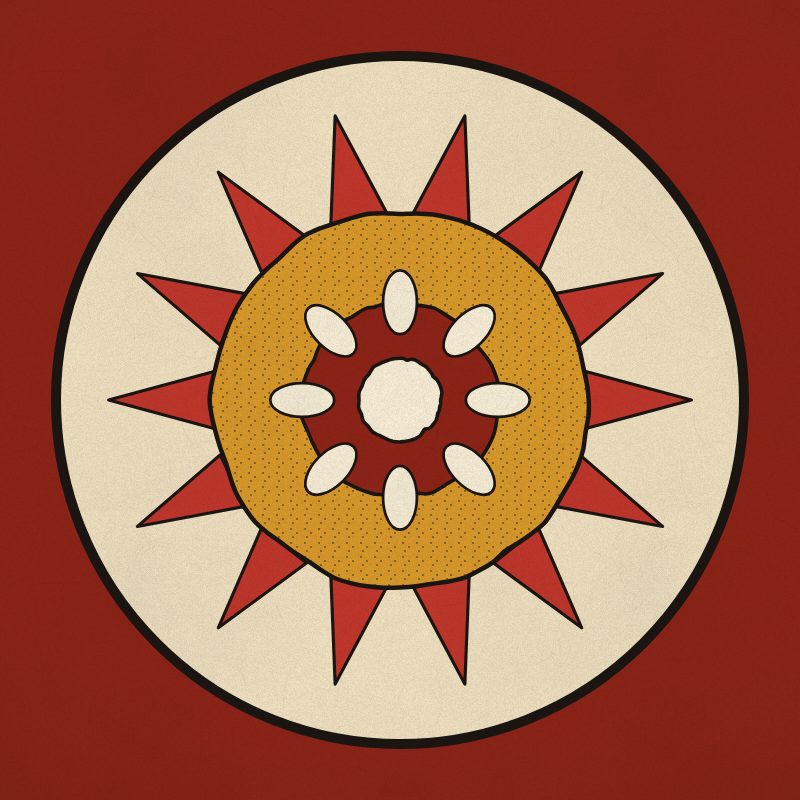
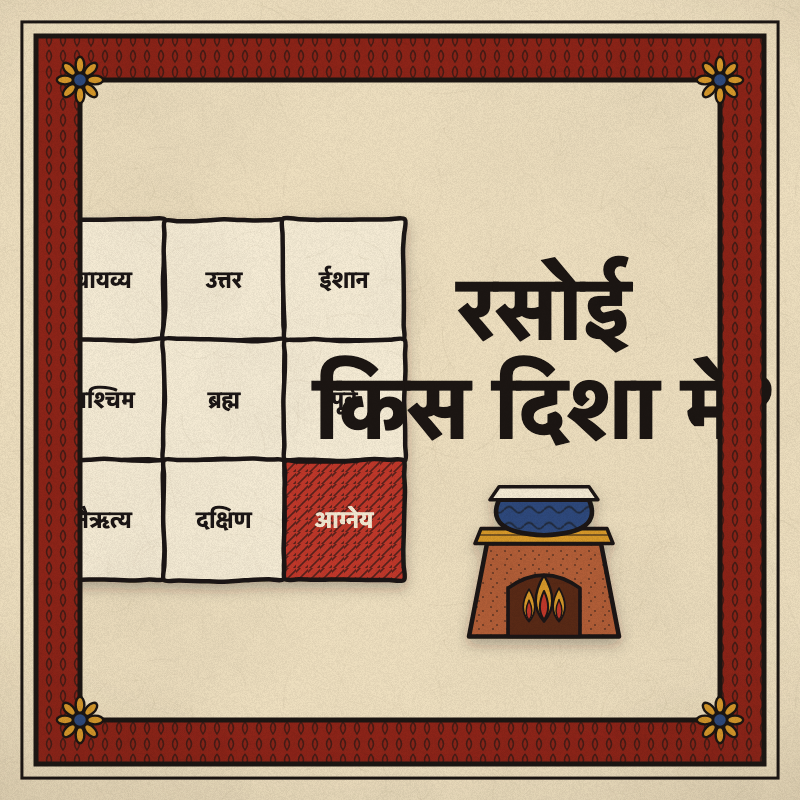
Episode 1 upload pack, and make the thumbnail reachable
The thumbnail scene could never render. Branch selection in the brand
episode used `W / H > 1.6` to spot the banner, but the banner (2048x1152)
and the thumbnail (1280x720) are both 16:9 — so the banner branch claimed
both and the shipped "thumbnail" was banner art squeezed to 1280x720, with
the grid and lotus sliced off at the edges. Selection now goes by preset
name, falling back to width. All three brand assets re-rendered.

UPLOAD.md carries the title, description, chapters, tags, upload settings
and pinned comment for episode 1. The description cites 53.118 with the
free Iyer text linked so viewers can check it, and says plainly that the
Agni-corner reasoning is still open — same position the video takes.

Checked before shipping: 1920x1080 h264 / 48kHz stereo aac, 4m42s, and
-14.2 LUFS integrated, which is YouTube's normalisation target.

diff --git a/episodes/brand/episode.js b/episodes/brand/episode.js
@@ -16,8 +16,12 @@ export default {
   script: [],
   build({ stage, preset }) {
     const W = stage.width, H = stage.height, CX = W / 2, CY = H / 2;
-    const isLogo = Math.abs(W - H) < 2;
-    const isBanner = W / H > 1.6;
+    // Banner and thumbnail are both 16:9, so aspect ratio cannot tell them
+    // apart — it made the thumbnail branch unreachable. Go by preset name,
+    // falling back to size (banner 2048 wide, thumbnail 1280).
+    const kind = preset ?? (Math.abs(W - H) < 2 ? 'logo' : W >= 2000 ? 'banner' : 'thumb');
+    const isLogo = kind === 'logo';
+    const isBanner = kind === 'banner';
 
     stage.scene({ name: 'brand', from: 0, to: 2, build() {
       if (isLogo) {

diff --git a/episodes/rasoi-disha/UPLOAD.md b/episodes/rasoi-disha/UPLOAD.md
@@ -1,0 +1,119 @@
+# Episode 1 — upload pack
+
+Paste-ready. Everything below is the Hindi copy that goes into YouTube Studio.
+
+---
+
+## Title
+
+**Primary** (84 chars — question form, names the source, promises no outcome):
+
+```
+रसोई किस दिशा में? बृहत् संहिता ५३.११८ में क्या लिखा है
+```
+
+Alternates:
+
+```
+रसोई किस दिशा में होनी चाहिए? — ग्रंथ से सीधा उत्तर
+```
+```
+रसोई की दिशा: बृहत् संहिता क्या कहती है, और क्या नहीं
+```
+
+Why question form: among the top performers in this niche, question titles were
+the most common pattern (22% of them, 1.07M median views). It also happens to be
+what this episode actually is.
+
+---
+
+## Description
+
+```
+हर घर में यह सवाल उठता है — रसोई किस दिशा में होनी चाहिए?
+
+इस वीडियो में हम जवाब किसी परंपरा या सुनी-सुनाई बात से नहीं, सीधे ग्रंथ से
+पढ़ते हैं। वराहमिहिर की बृहत् संहिता, अध्याय ५३, श्लोक ११८ — जहाँ रसोई का
+स्थान स्पष्ट रूप से दक्षिण-पूर्व (आग्नेय) बताया गया है।
+
+और जहाँ ग्रंथ चुप है, वहाँ हम भी चुप हैं। आग्नेय कोण का जो कारण आमतौर पर
+बताया जाता है, वह इसी अनुवाद के श्लोक ४३ से पूरी तरह मेल नहीं खाता। हमने यह
+बात छिपाई नहीं — वीडियो में साफ़ कहा है कि यह आगे पढ़ना बाकी है।
+
+शास्त्र जितना कहता है, उतना ही कहेंगे — पूरे सम्मान के साथ, और पूरी सावधानी से।
+
+━━━━━━━━━━━━━━━━━━━━
+
+⏱ अध्याय
+
+0:00 सवाल
+0:37 ग्रंथ
+1:38 वास्तुपुरुष
+2:33 कारण और शास्त्र की गहराई
+3:37 निश्चित और अनिश्चित
+
+━━━━━━━━━━━━━━━━━━━━
+
+📖 स्रोत
+
+बृहत् संहिता — वराहमिहिर (छठी शताब्दी)
+अनुवाद: N. Chidambaram Iyer, 1884 — पूरा पाठ निःशुल्क उपलब्ध है:
+https://www.wisdomlib.org/hinduism/book/brihat-samhita/d/doc229297.html
+
+आप स्वयं पढ़कर जाँच सकते हैं। यही इस चैनल का तरीक़ा है।
+
+━━━━━━━━━━━━━━━━━━━━
+
+⚠ सूचना
+
+यह वीडियो पारंपरिक ग्रंथों की जानकारी देता है। यह किसी परिणाम, लाभ या
+उपाय की गारंटी नहीं है, और न ही यह चिकित्सा, वित्तीय या क़ानूनी सलाह है।
+किसी भी निर्णय से पहले योग्य व्यक्ति से परामर्श करें।
+
+━━━━━━━━━━━━━━━━━━━━
+
+शास्त्र कथा — वास्तु · ज्योतिष · योग · परंपरा
+हर बात ग्रंथ से, संदर्भ के साथ।
+
+#वास्तु #बृहत्संहिता #वास्तुशास्त्र #रसोई #शास्त्रकथा
+```
+
+---
+
+## Tags
+
+```
+वास्तु शास्त्र, बृहत् संहिता, वास्तु टिप्स, रसोई की दिशा, रसोई वास्तु, आग्नेय कोण,
+वास्तु पुरुष, वराहमिहिर, हिंदू शास्त्र, सनातन धर्म, vastu shastra, brihat samhita,
+kitchen direction vastu, vastu purusha, agneya corner, varahamihira, hindu scriptures,
+vastu in hindi, shastra katha
+```
+
+---
+
+## Upload settings
+
+| Field | Value |
+|---|---|
+| Visibility | Public |
+| Category | Education |
+| Language | Hindi |
+| Subtitles | upload `out/rasoi-disha/rasoi-disha.srt` (Hindi) |
+| Thumbnail | `channel-setup/3-thumbnail-template-1280x720.png` |
+| Made for kids | **No** |
+| Altered content | No |
+| Comments | On — this channel invites correction |
+| Playlist | वास्तु शास्त्र |
+
+File to upload: `out/rasoi-disha/rasoi-disha.mp4` (202 MB, 1920x1080, 4m42s)
+
+---
+
+## Pinned comment
+
+```
+इस वीडियो का पूरा आधार एक ही श्लोक है — बृहत् संहिता ५३.११८।
+अनुवाद (Iyer, 1884) निःशुल्क है, लिंक विवरण में है। ख़ुद पढ़िए।
+
+अगर कहीं हमसे चूक हुई हो, तो टोकिए — संदर्भ के साथ। सुधार कर लेंगे।
+```
